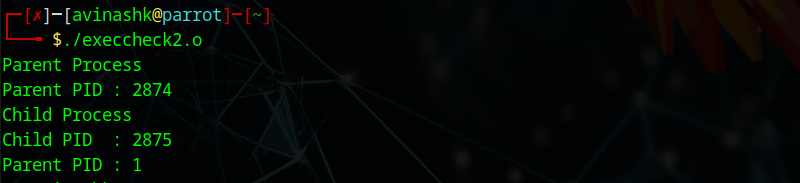
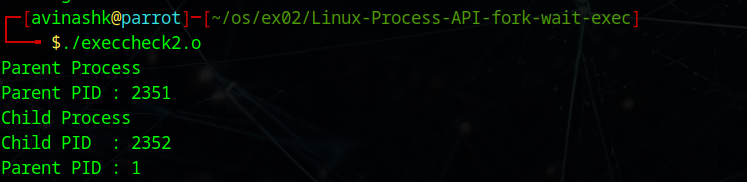
COMPARING FILES

diff --git a/execcheck2.c b/execcheck2.c
@@ -1,1 +1,29 @@
-//C Program to execute Linux system commands using Linux API system calls exec() family
+#include <stdio.h>
+#include <unistd.h>
+
+int main()
+{
+    pid_t pid;
+
+    pid = fork();
+
+    if (pid < 0)
+    {
+        printf("Fork failed\n");
+    }
+    else if (pid == 0)
+    {
+        // Child process
+        printf("Child Process\n");
+        printf("Child PID  : %d\n", getpid());
+        printf("Parent PID : %d\n", getppid());
+    }
+    else
+    {
+        // Parent process
+        printf("Parent Process\n");
+        printf("Parent PID : %d\n", getpid());
+    }
+
+    return 0;
+}

diff --git a/forkcheck.c b/forkcheck.c
@@ -1,1 +1,24 @@
-//C Program to create new process using Linux API system calls fork() and exit()
+#include <stdio.h>
+#include <unistd.h>
+#include <sys/wait.h>
+#include <stdlib.h>
+
+int main()
+{
+    pid_t pid = fork();
+
+    if (pid == 0)
+    {
+        printf("Child process executing ls command\n");
+        execlp("ls", "ls", NULL);
+        perror("Exec failed");
+        exit(1);
+    }
+    else
+    {
+        wait(NULL);
+        printf("Parent process: Child execution completed\n");
+    }
+
+    return 0;
+}

diff --git a/README.md b/README.md
@@ -25,12 +25,40 @@ Test the C Program for the desired output.
 
 ## C Program to create new process using Linux API system calls fork() and getpid() , getppid() and to print process ID and parent Process ID using Linux API system calls
 
+#include <stdio.h>
+#include <unistd.h>
 
+int main()
+{
+    pid_t pid;
+
+    pid = fork();
+
+    if (pid < 0)
+    {
+        printf("Fork failed\n");
+    }
+    else if (pid == 0)
+    {
+        // Child process
+        printf("Child Process\n");
+        printf("Child PID  : %d\n", getpid());
+        printf("Parent PID : %d\n", getppid());
+    }
+    else
+    {
+        // Parent process
+        printf("Parent Process\n");
+        printf("Parent PID : %d\n", getpid());
+    }
+
+    return 0;
+}
 
 ##OUTPUT
 
 
-
+![Alt text](1.png)
 
 
 
@@ -38,7 +66,30 @@ Test the C Program for the desired output.
 ## C Program to execute Linux system commands using Linux API system calls exec() , exit() , wait() family
 
 
+#include <stdio.h>
+#include <unistd.h>
+#include <sys/wait.h>
+#include <stdlib.h>
 
+int main()
+{
+    pid_t pid = fork();
+
+    if (pid == 0)
+    {
+        printf("Child process executing ls command\n");
+        execlp("ls", "ls", NULL);
+        perror("Exec failed");
+        exit(1);
+    }
+    else
+    {
+        wait(NULL);
+        printf("Parent process: Child execution completed\n");
+    }
+
+    return 0;
+}
 
 
 
@@ -63,7 +114,7 @@ Test the C Program for the desired output.
 
 
 
-
+![Alt text](2.png)
 
 
 
